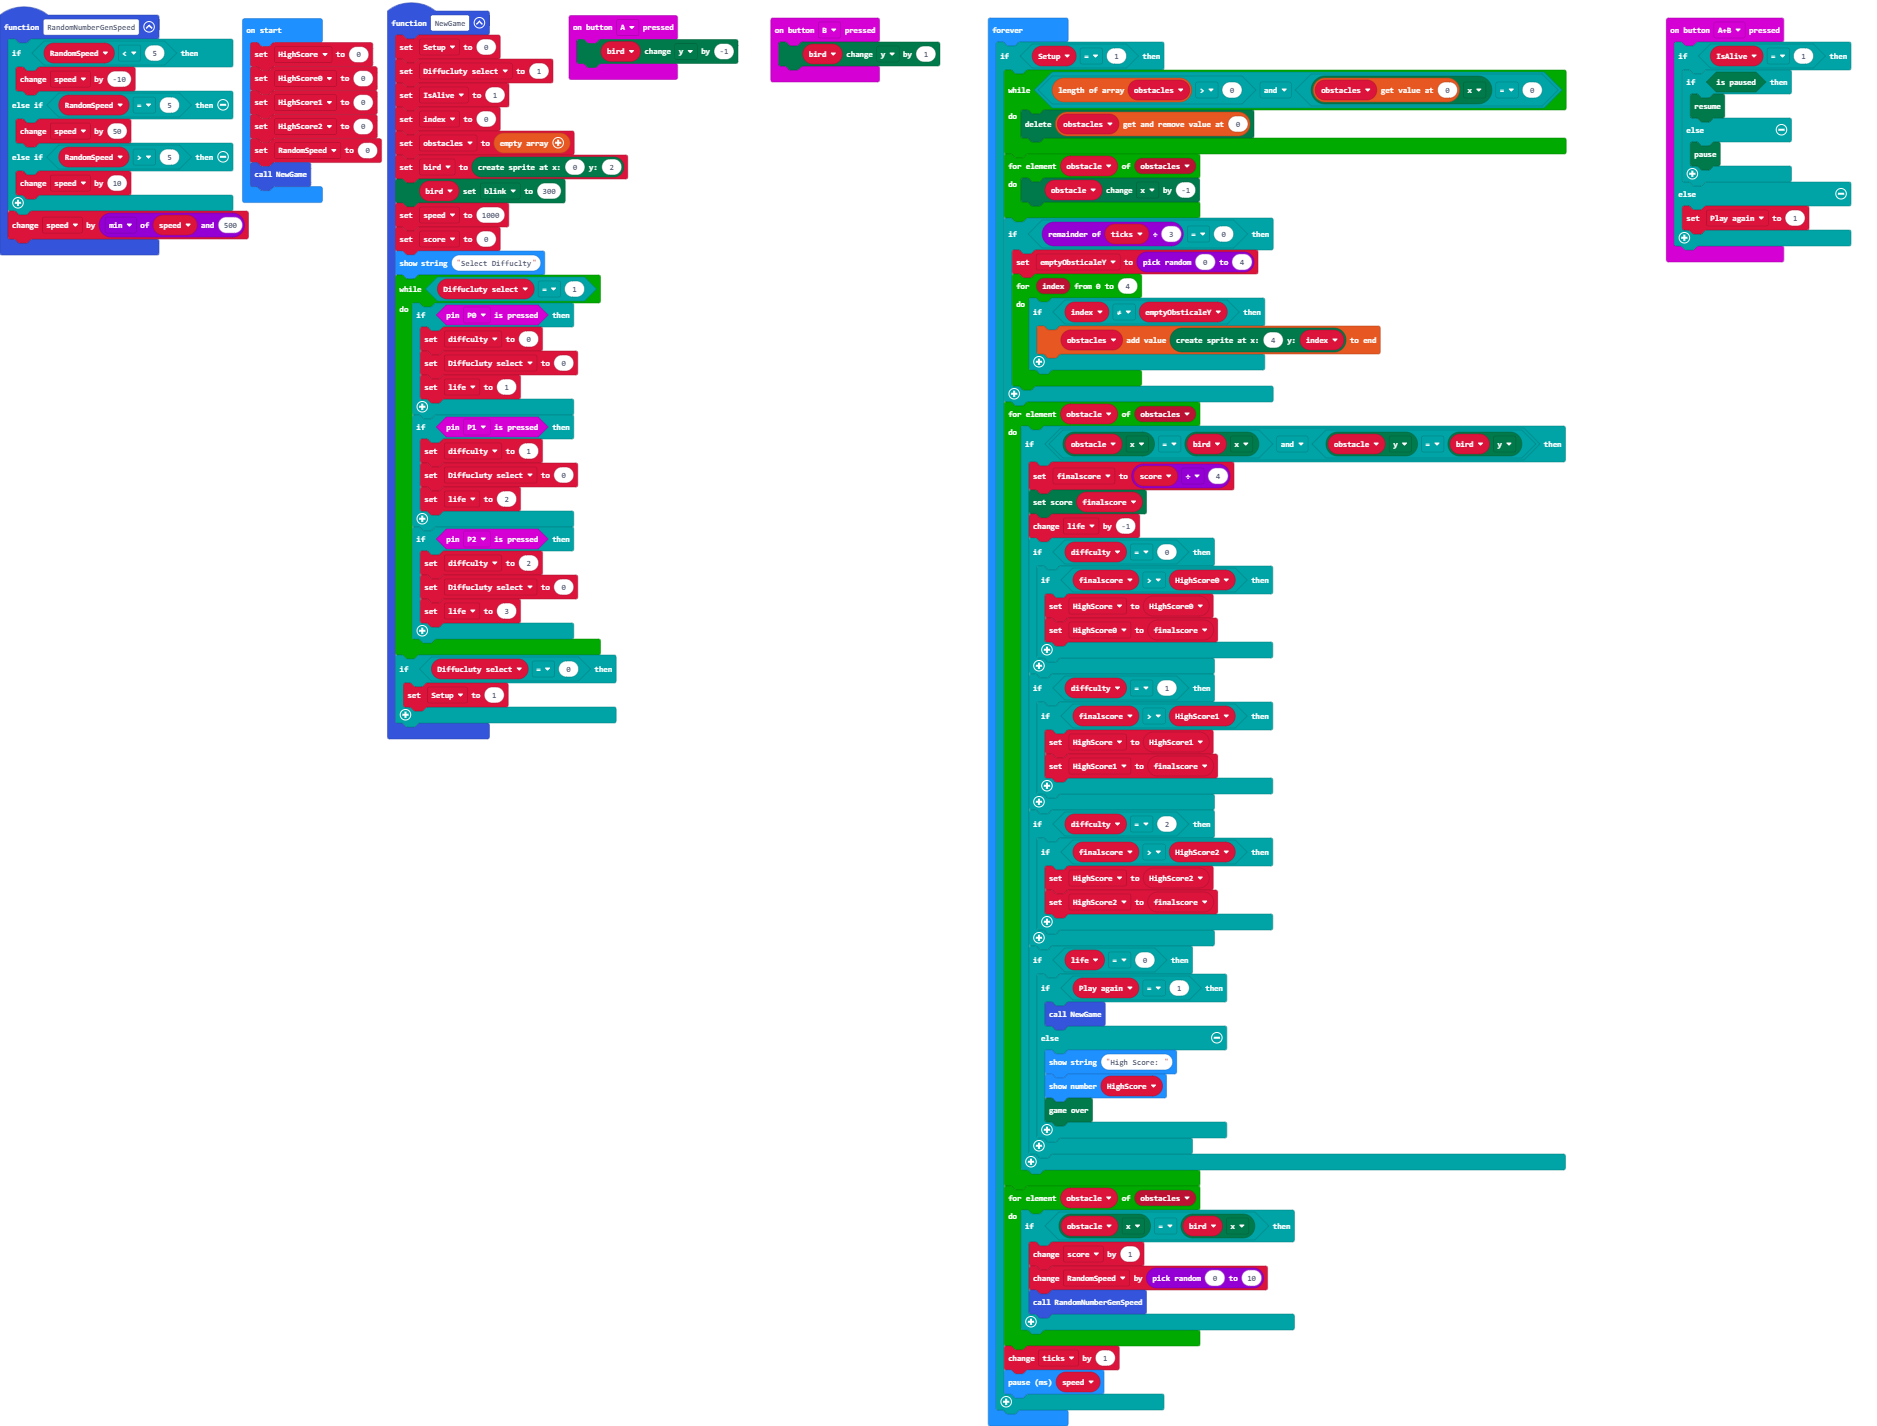
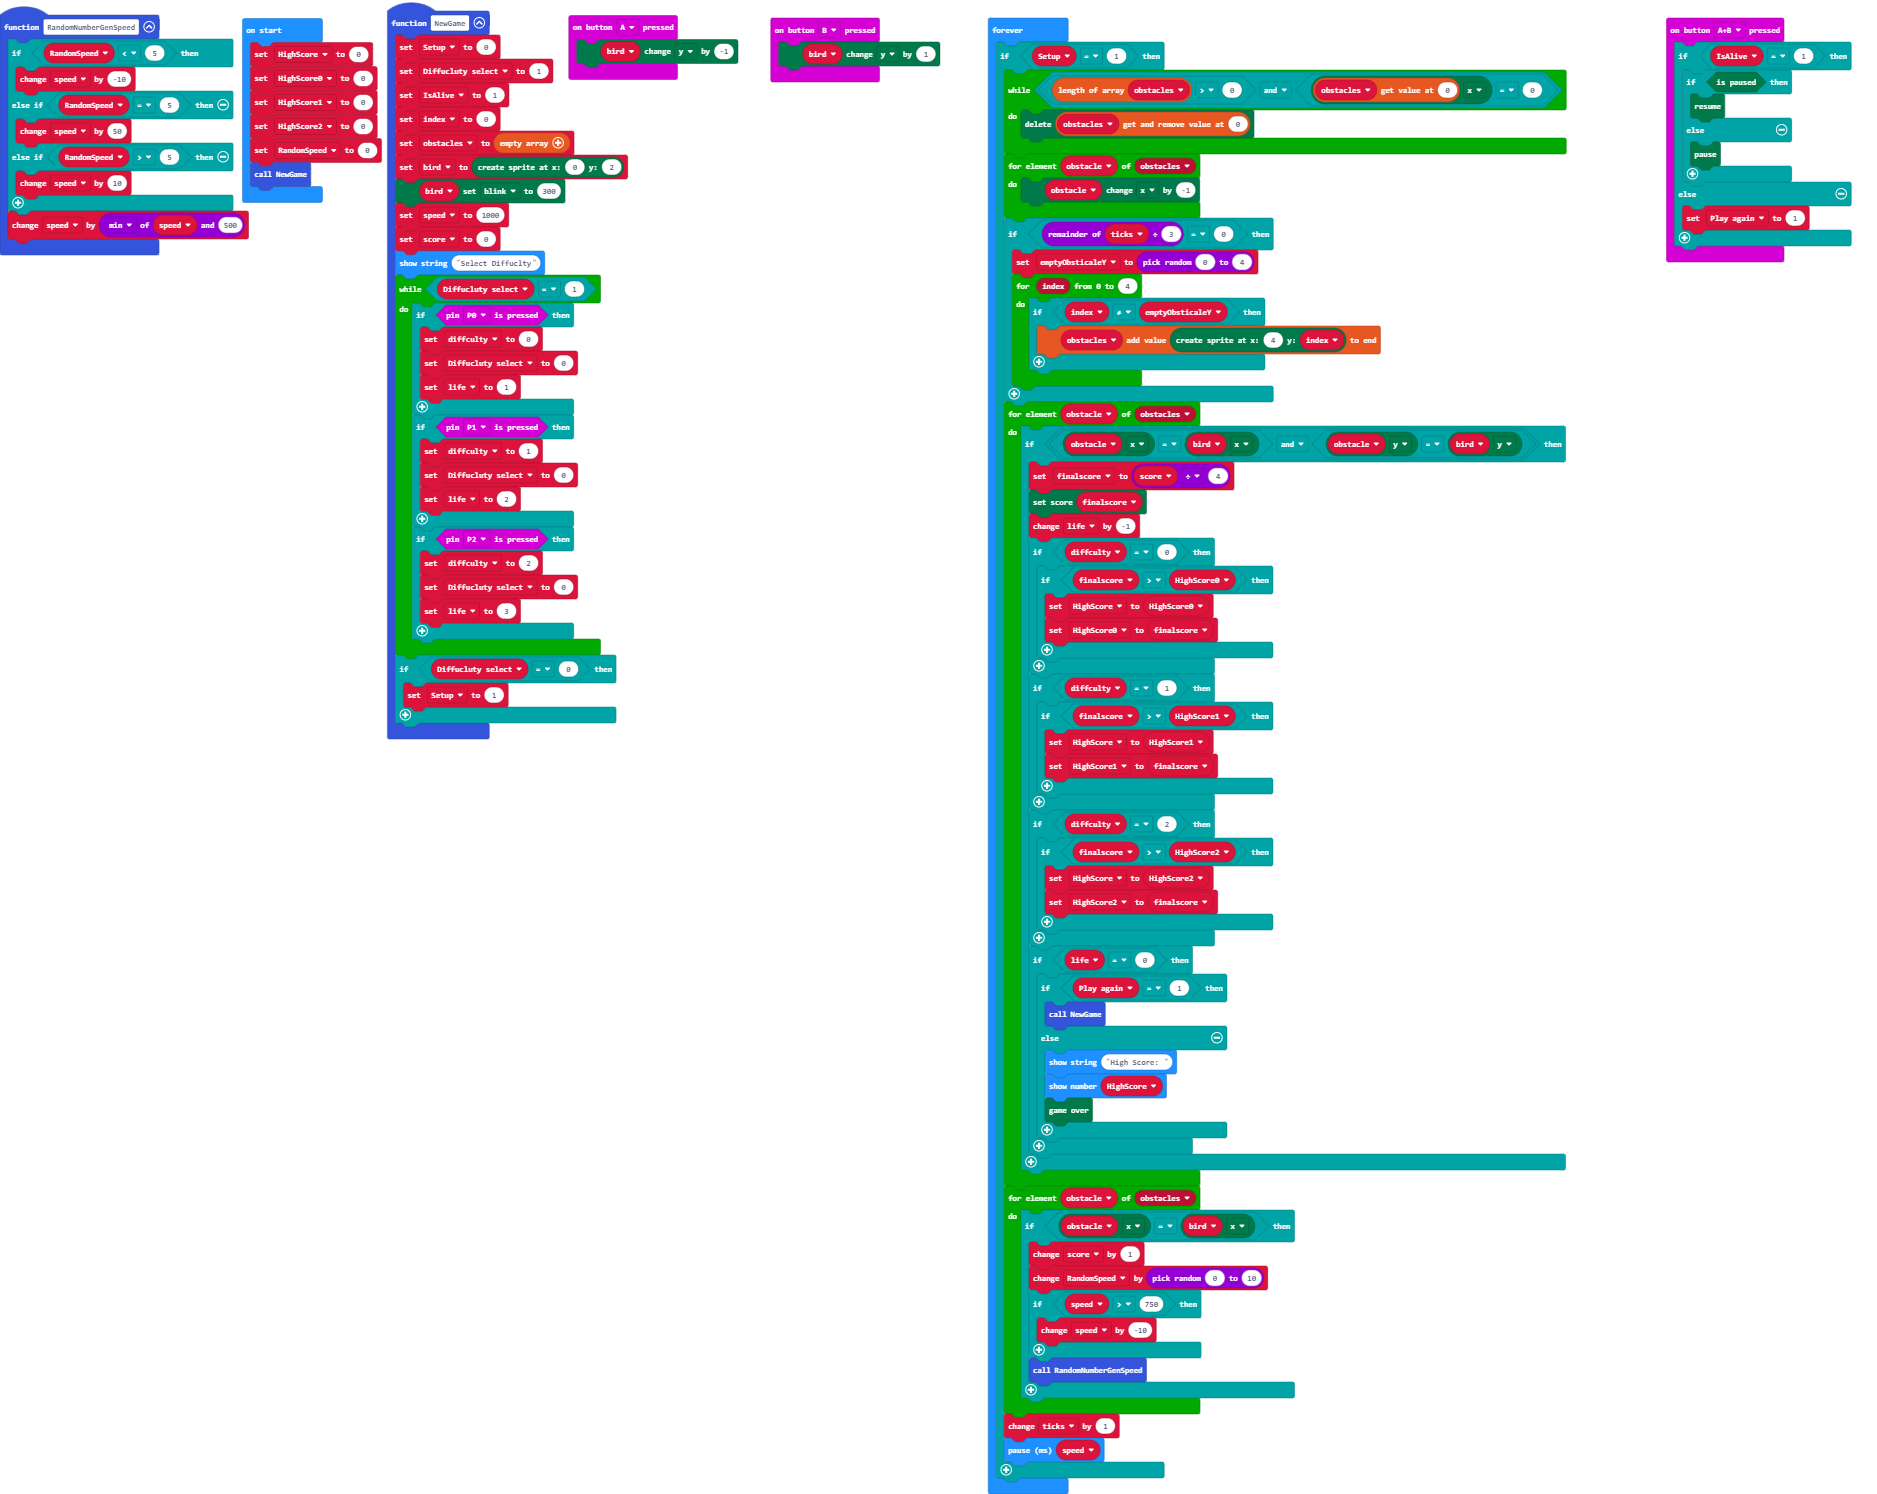
Update main.blocks, main.ts

Changed region(s): [[0.5253, 0.0, 0.8343, 1.0], [0.0, 0.0, 0.4944, 0.5245], [0.8652, 0.0, 0.9888, 0.1851]]

diff --git a/main.ts b/main.ts
@@ -132,6 +132,9 @@ basic.forever(function () {
             if (obstacle.get(LedSpriteProperty.X) == bird.get(LedSpriteProperty.X)) {
                 score += 1
                 RandomSpeed += randint(0, 10)
+                if (speed > 750) {
+                    speed += -10
+                }
                 RandomNumberGenSpeed()
             }
         }
